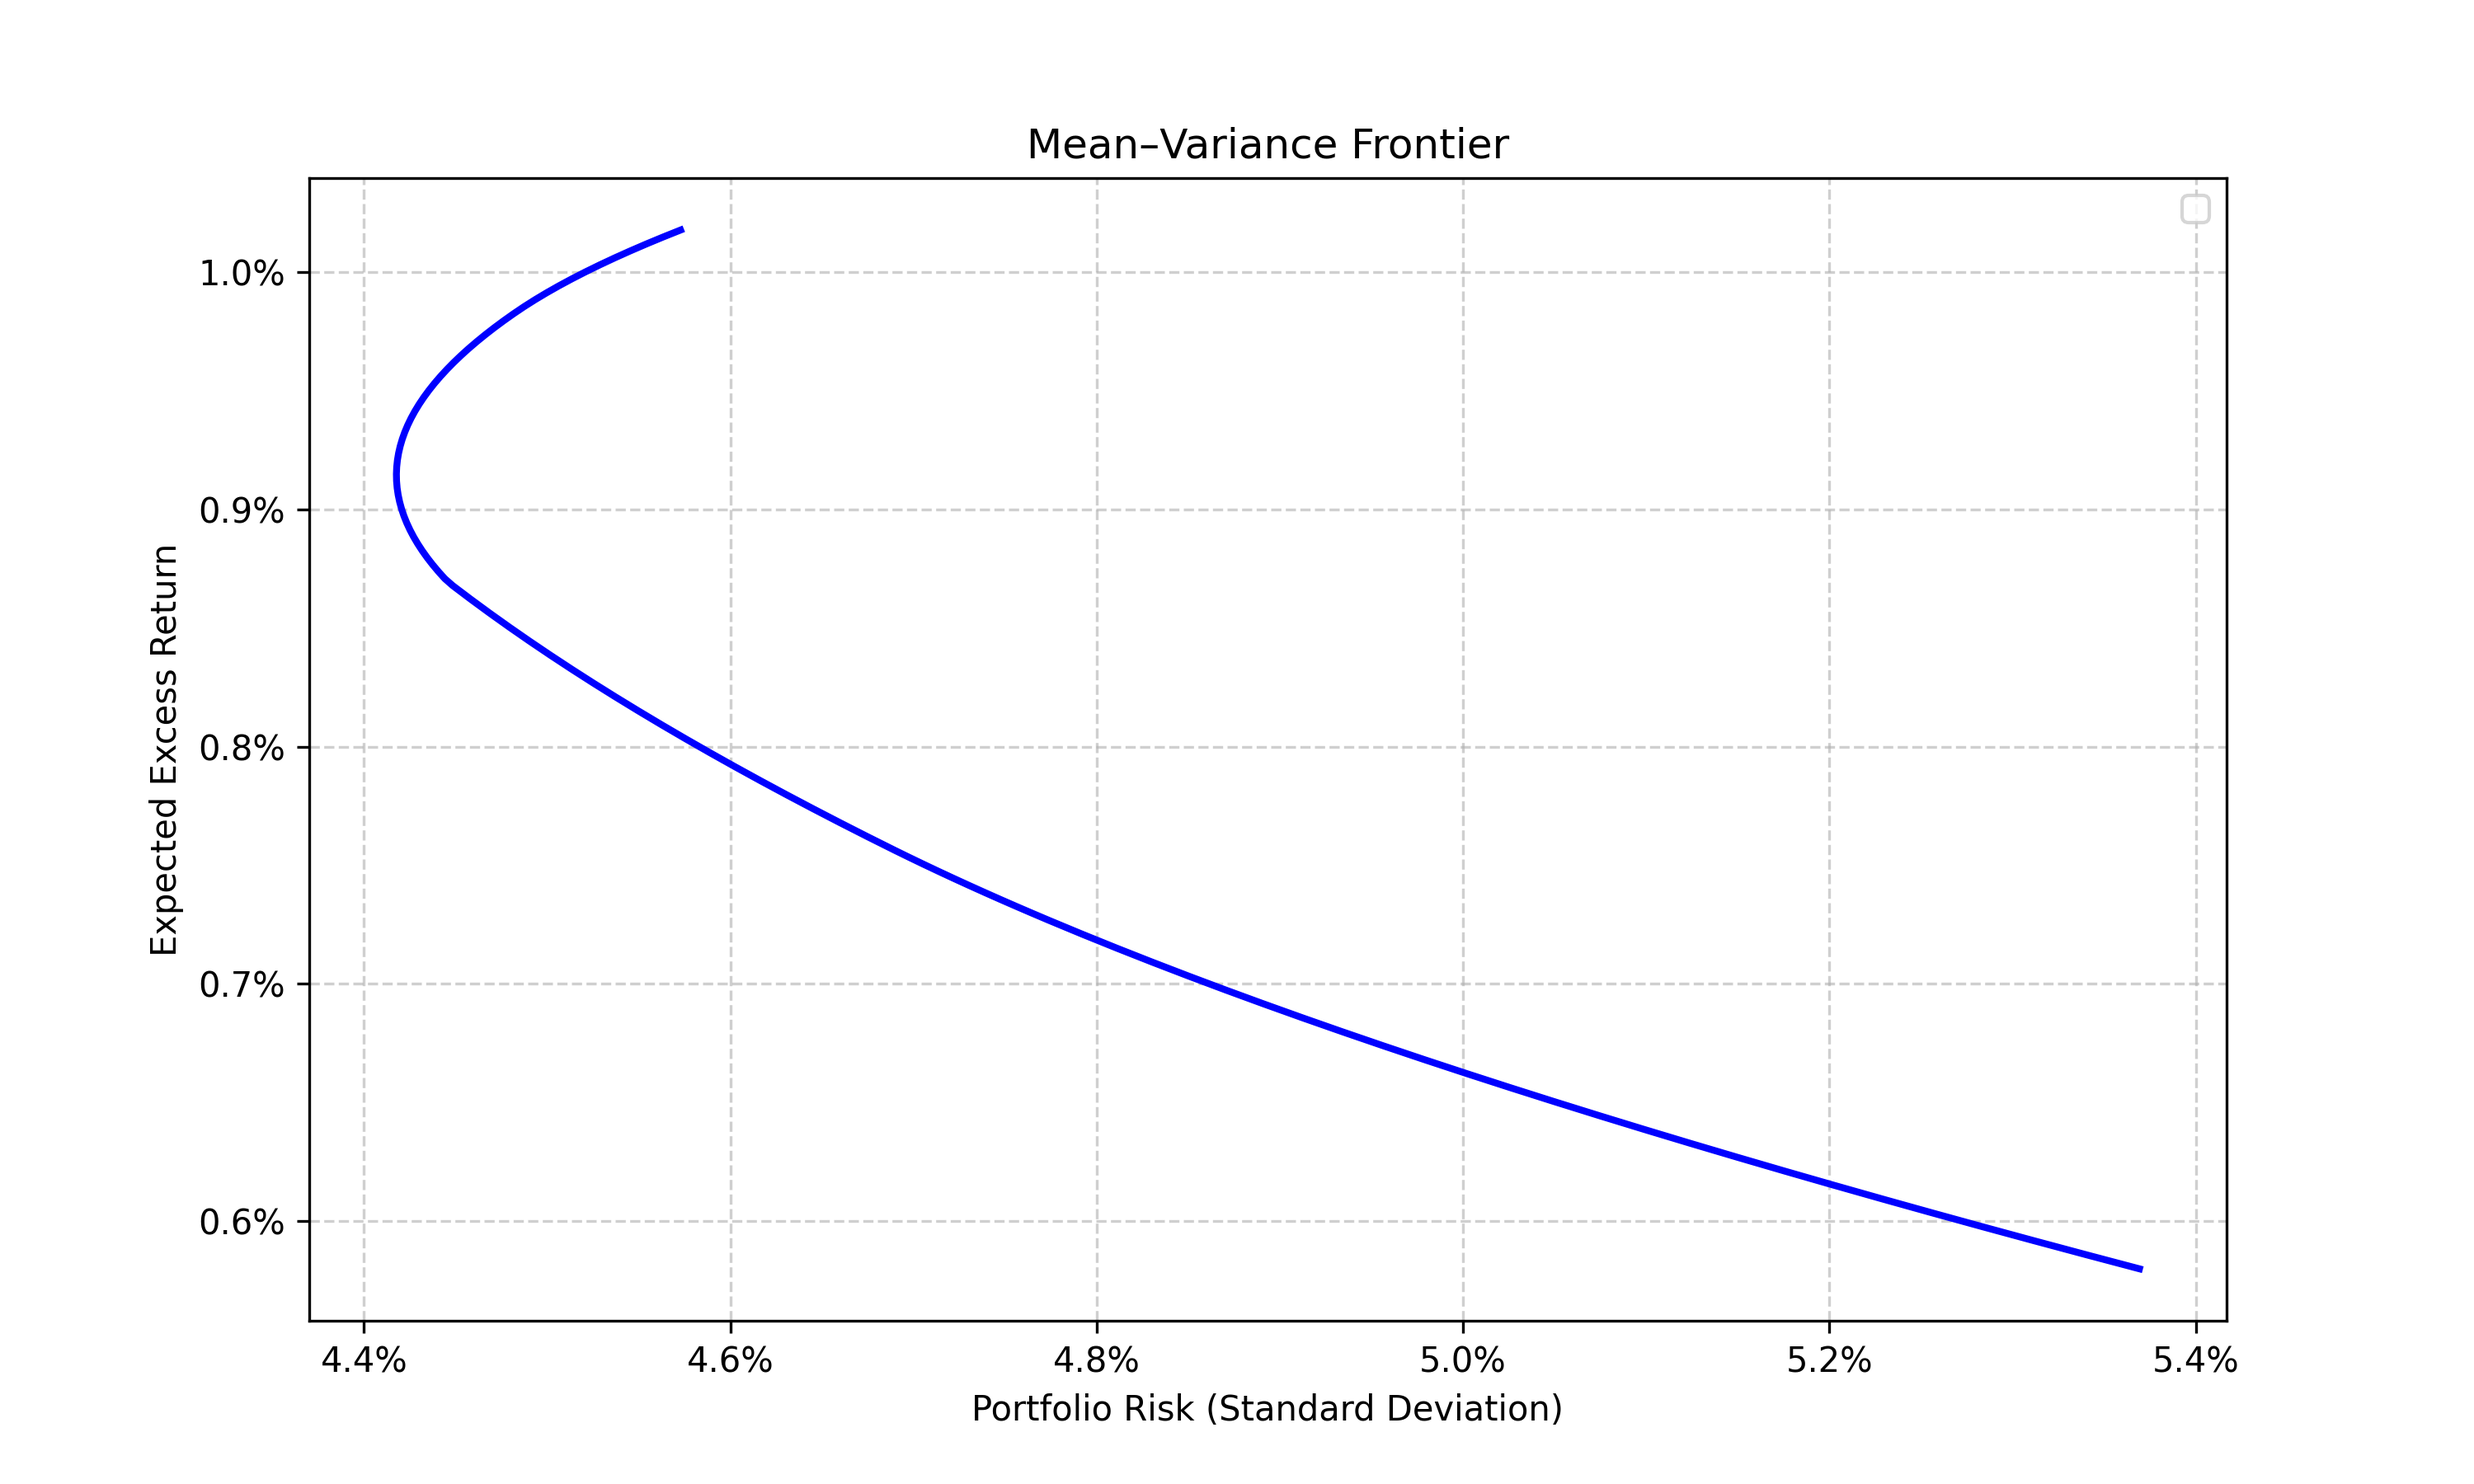
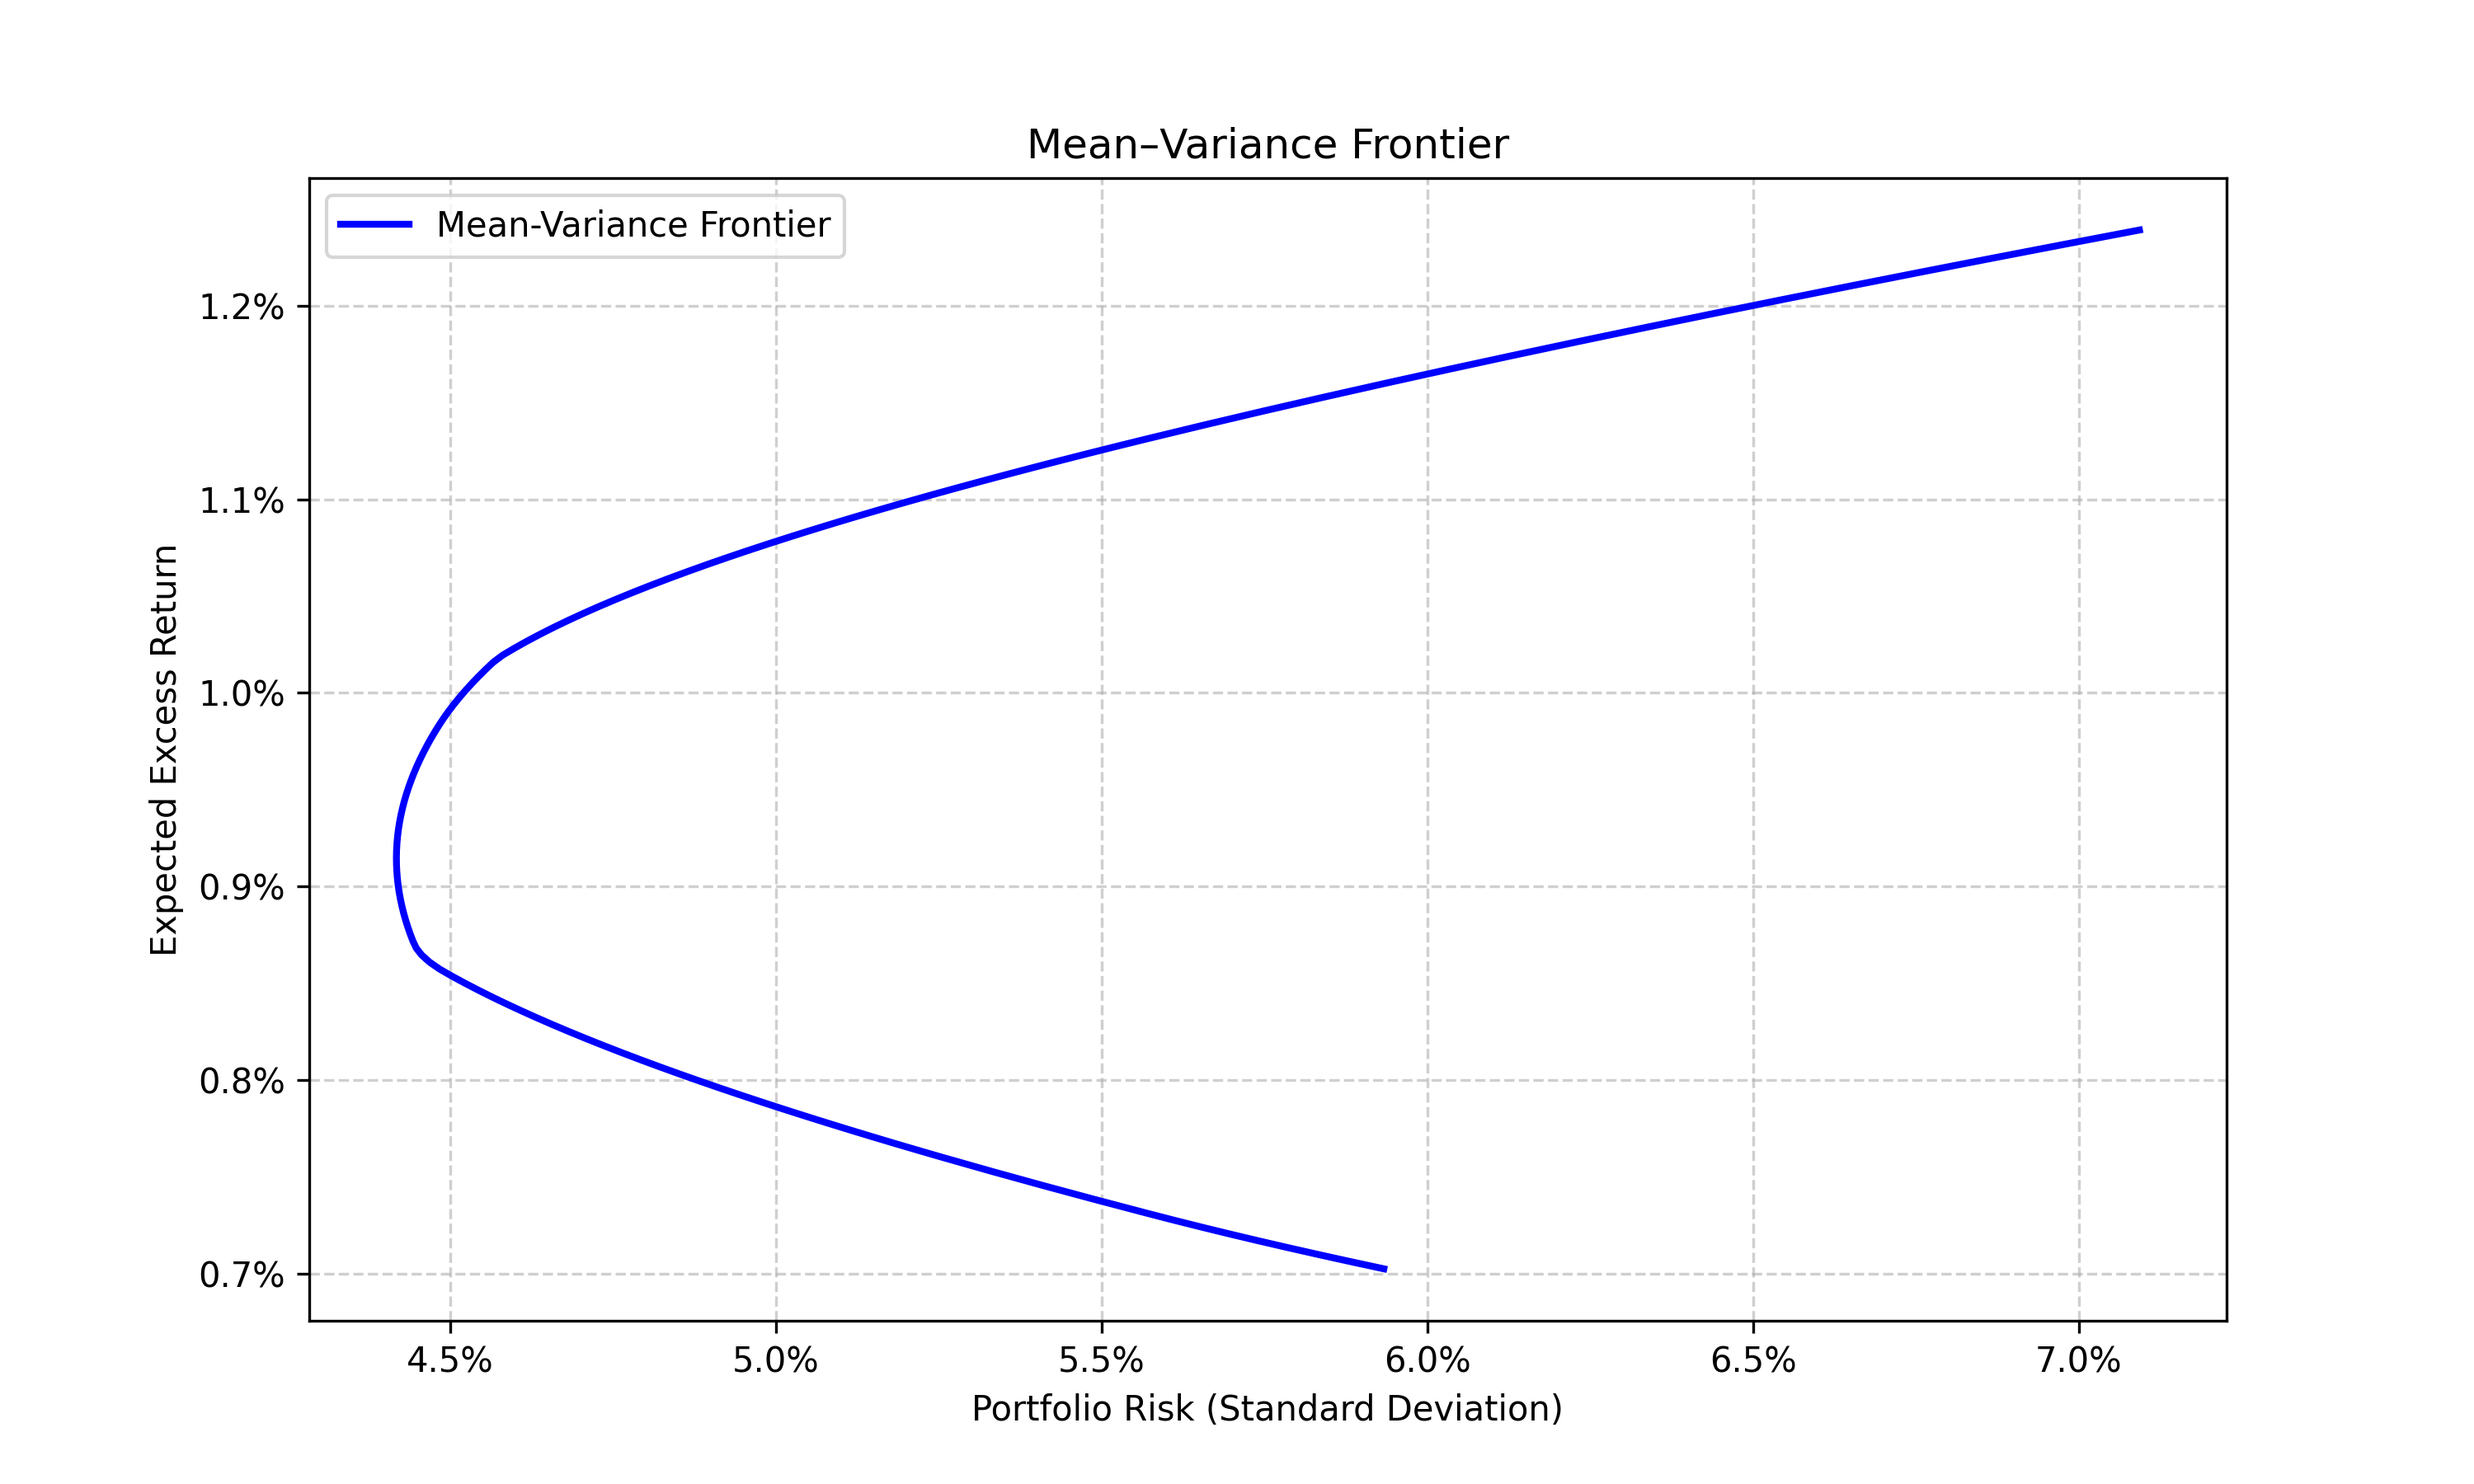
last

diff --git a/markowitz.py b/markowitz.py
@@ -39,7 +39,11 @@ def markowitz_optimizer(mean_return, cov_matrix, target, direction = "min", allo
     
     w0 = np.zeros(len(mean_return)) + 1/len(mean_return)
 
-    bound = [(0, 1)] * len(mean_return) # Ensures no shorting is allowed
+    if not allow_short:
+        bound = [(0, 1)] * len(mean_return) # Ensures no shorting is allowed
+    
+    if allow_short:
+        bound = [(-1, 1)] * len(mean_return) # Allows shorting up to -200%
 
     if direction == "min":
         cons = [{'type': 'eq', 'fun': weights_sum_constr},
@@ -60,7 +64,7 @@ def markowitz_optimizer(mean_return, cov_matrix, target, direction = "min", allo
 
 # function that finds the empirical minimum variance frontier:
 
-def efficient_frontier(eu_data, us_data, eu_factors, us_factors, n_points=150, allow_short = False):
+def efficient_frontier(eu_data, us_data, eu_factors, us_factors, target_ret = None, n_points=150, allow_short = False):
     eu = eu_data[eu_factors]
     # prefix EU_ to each column name to avoid duplicates
     eu.columns = ["EU_" + col for col in eu.columns]
@@ -77,16 +81,23 @@ def efficient_frontier(eu_data, us_data, eu_factors, us_factors, n_points=150, a
 
     target_returns = np.linspace(mu_min, mu_max, n_points)
 
+    if allow_short:
+        target_returns = np.linspace(0.5, 2, n_points)
+
     frontier_returns = []
     frontier_variance = []
     frontier_weights = []
+    market_cols = [i for i, nm in enumerate(data.columns) if nm.endswith("RM_RF")]
 
     if allow_short:
         for mu in target_returns:
             res = markowitz_optimizer(mean_return, cov_matrix, mu, allow_short= True, direction="min")
             if res.success:
                 w = res.x
-                port_return = w @ mean_return
+                risk_free_weight = 0
+                if sum(w[market_cols]) < 1:
+                    risk_free_weight = 1 - sum(w[market_cols])
+                port_return = w @ mean_return + risk_free_weight * eu_data.iloc[-1]['RF']
                 port_var = w.T @ cov_matrix @ w
                 frontier_returns.append(port_return)
                 frontier_variance.append(np.sqrt(port_var))
@@ -111,9 +122,24 @@ def efficient_frontier(eu_data, us_data, eu_factors, us_factors, n_points=150, a
 # Function that plots the frontier:
 
 
+def frontier_plotter_compare(risks, returns, risks_short, returns_short, name = ""):
+    plt.figure(figsize=(10, 6))
+    plt.plot(risks, returns, 'b-', lw=2, label='Mean-Variance Frontier (No Shorting)')
+    plt.plot(risks_short, returns_short, 'r-', lw=2, label='Mean-Variance Frontier (Shorting Allowed)')
+    plt.xlabel('Portfolio Risk (Standard Deviation)')
+    plt.ylabel('Expected Excess Return')
+    plt.title('Mean–Variance Frontier')
+    plt.grid(True, linestyle='--', alpha=0.6)
+    plt.legend()
+    plt.gca().xaxis.set_major_formatter(lambda v,pos: f"{v:.1f}%")
+    plt.gca().yaxis.set_major_formatter(lambda v,pos: f"{v:.1f}%")
+    # saves plot in high resolution
+    plt.savefig(f"{name}.png", dpi=300)
+    #plt.show()
+
 def frontier_plotter(risks, returns):
     plt.figure(figsize=(10, 6))
-    plt.plot(risks, returns, 'b-', lw=2)
+    plt.plot(risks, returns, 'b-', lw=2, label='Mean-Variance Frontier')
     plt.xlabel('Portfolio Risk (Standard Deviation)')
     plt.ylabel('Expected Excess Return')
     plt.title('Mean–Variance Frontier')
@@ -126,13 +152,23 @@ def frontier_plotter(risks, returns):
     #plt.show()
 
 
-us_factors, eu_factors = ["RM_RF", "MOM", "SMB"], ["RM_RF", "MOM"]
+us_factors, eu_factors = ["RM_RF", "MOM", "SMB"], ["MOM", "SMB"]
+
+EU_data_long = pd.read_csv("csv_files/long_EXPORT EU EUR.csv")
+US_data_long = pd.read_csv("csv_files/long_EXPORT US EUR.csv")
+
+variance, returns, weights = efficient_frontier(EU_data_long, US_data_long, eu_factors, us_factors, n_points=150, allow_short = False)
+
+us_factors, eu_factors = ["SMB", "MOM", "RM_RF"], ["RM_RF", "MOM", "SMB"]
+
+returns_short = np.linspace(0.4, 2.5, 50)
+
+variance_short, returns_short, weights_short = efficient_frontier(EU_data, US_data, eu_factors, us_factors, n_points=50, allow_short = True, target_ret = returns_short)
 
 
+frontier_plotter_compare(variance, returns, variance_short, returns_short, name = "efficient_frontier_compare")
 
-# variance, returns, weights = efficient_frontier(EU_data, US_data, eu_factors, us_factors, n_points=50, allow_short = True)
-
-# frontier_plotter(variance, returns)
+frontier_plotter(variance, returns)
 
 # We want to invest in the portfolio with the highest sharpe ratio, that is the tangent portfolio
 # but we can't use theoretical results because we have a no-shorting constraint

diff --git a/strategy_comparison_plot.py b/strategy_comparison_plot.py
@@ -72,6 +72,8 @@ def result_plot(EU_data, US_data, window, n_points, eu_factors, us_factors, mark
         # Use markowitz function to get markowitz return and value development of tangent strategy
         markowitz_returns_tan = markowitz_historical(EU_data, US_data, eu_factors, us_factors, window, strategy = "tangent", n_points = n_points, allow_short=markowitz_short)
         markowitz_value_tan = returns_to_value(markowitz_returns_tan)
+        markowitz_returns_minvar = markowitz_historical(EU_data, US_data, eu_factors, us_factors, window, strategy = "min_variance", n_points = n_points, allow_short=markowitz_short)
+        markowitz_value_minvar = returns_to_value(markowitz_returns_minvar)
         risk_parity_returns = []
         risk_parity_value = []   
         for vol_target in volatility_targets:
@@ -101,6 +103,7 @@ def result_plot(EU_data, US_data, window, n_points, eu_factors, us_factors, mark
     
     if name == "Markowitz vs Risk Parity strategies (with shorting)":
         plt.plot(EU_data['Date'][-len(markowitz_value_tan):], markowitz_value_tan, label='Tangent Strategy')
+        plt.plot(EU_data['Date'][-len(markowitz_value_minvar):], markowitz_value_minvar, label='Min Variance Strategy')
         for i, vol_target in enumerate(volatility_targets):
             plt.plot(EU_data['Date'][-len(risk_parity_value[i]):], risk_parity_value[i], label=f'Risk Parity Strategy (Vol Target: {vol_target}%)')
 
@@ -117,7 +120,7 @@ def result_plot(EU_data, US_data, window, n_points, eu_factors, us_factors, mark
     if name == "Markowitz strategy comparison":
        return markowitz_returns_tan, markowitz_returns_max, markowitz_returns_minvar, market_returns
     if name == "Markowitz vs Risk Parity strategies (with shorting)":
-         return markowitz_returns_tan, risk_parity_returns, market_returns
+         return markowitz_returns_tan, markowitz_returns_minvar, risk_parity_returns, market_returns
 
 
 
@@ -138,7 +141,7 @@ markowitz_short = True
 
 name = "Markowitz vs Risk Parity strategies (with shorting)"
 
-volatility_targets = [1.5, 3, 5]
+volatility_targets = [2, 5]
 
 window = 36
 
@@ -153,7 +156,7 @@ has_MOM2, has_SMB2, has_RM_RF2 = True, True, True
 
 eu_factors, us_factors = ["MOM", "SMB", "RM_RF"], ["RM_RF", "MOM", "SMB"]
 
-markowitz_returns_tan, risk_parity_returns, market_returns = result_plot(name = name, volatility_targets= volatility_targets, EU_data = EU_data, US_data = US_data, eu_factors = eu_factors, us_factors = us_factors, n_points = n_points, window = window, markowitz_short= markowitz_short, data = "both", baseline_market= "EU", has_SMB1=has_SMB1, has_SMB2=has_SMB2, has_MOM1=has_MOM1, has_MOM2=has_MOM2, has_RM_RF1=has_RM_RF1, has_RM_RF2=has_RM_RF2)
+markowitz_returns_tan, markowitz_returns_minvar, risk_parity_returns, market_returns = result_plot(name = name, volatility_targets= volatility_targets, EU_data = EU_data, US_data = US_data, eu_factors = eu_factors, us_factors = us_factors, n_points = n_points, window = window, markowitz_short= markowitz_short, data = "both", baseline_market= "EU", has_SMB1=has_SMB1, has_SMB2=has_SMB2, has_MOM1=has_MOM1, has_MOM2=has_MOM2, has_RM_RF1=has_RM_RF1, has_RM_RF2=has_RM_RF2)
 
 #markowitz_returns_tan, markowitz_returns_max, markowitz_returns_minvar, market_returns = result_plot(name = name, volatility_targets= volatility_targets, EU_data = EU_data, US_data = US_data, eu_factors = eu_factors, us_factors = us_factors, n_points = n_points, window = window, markowitz_short= markowitz_short, data = "both", baseline_market= "EU", has_SMB1=has_SMB1, has_SMB2=has_SMB2, has_MOM1=has_MOM1, has_MOM2=has_MOM2, has_RM_RF1=has_RM_RF1, has_RM_RF2=has_RM_RF2) 
 
@@ -179,6 +182,7 @@ if name == "Markowitz strategy comparison":
 if name == "Markowitz vs Risk Parity strategies (with shorting)":
     strategies = {
         "Tangent": markowitz_returns_tan,
+        "Min Variance": markowitz_returns_minvar,
     }
     for i, vol_target in enumerate(volatility_targets):
         strategies[f'Risk Parity (Vol Target: {vol_target}%)'] = risk_parity_returns[i]

diff --git a/CPPI.py b/CPPI.py
@@ -310,7 +310,7 @@ plt.xlabel('Month')
 plt.ylabel('Amount')
 plt.title('CPPI Wealth and Guarantee over Time')
 plt.legend()
-#plt.show()
+plt.show()
 
 
 # ---- Loop for different m with initial L_target and L_trigger ----
@@ -329,15 +329,17 @@ for m_val in m_values:
                     "m": m_val,
                     # "L_target": L_t,
                     # "L_trigger": L_tr,
-                    "Avg Guarantee": np.mean(guarantee),
-                    "Minimum guarantee": np.min(guarantee),
-                    "Minimum Wealth": np.min(W_120),
-                    "Avg Return": np.mean(Return_120),
+                    "Avg(G)": np.mean(guarantee),
+                    "Min(G)": np.min(guarantee),
+                    "Std(G)": np.std(guarantee),
+                    "Avg(W)": np.mean(W_120),
+                    "Std(W)": np.std(W_120),
+                    "Avg(Tie-ins)": np.mean(num_tie_in),
                     # "Min Return": np.min(Return_120)
                 })
 
 table = pd.DataFrame(rows, columns=[
-    'm', 'Avg Guarantee', 'Minimum guarantee', 'Minimum Wealth', 'Avg Return'
+    'm', 'Avg(G)', 'Min(G)', 'Std(G)', 'Avg(W)', 'Std(W)', 'Avg(Tie-ins)'
 ])
 print(table)
 
@@ -360,15 +362,17 @@ for m_val in m_values:
                     "m": m_val,
                     "L_target": L_t,
                     "L_trigger": L_tr,
-                    "Avg Guarantee": np.mean(guarantee),
-                    "Minimum guarantee": np.min(guarantee),
-                    "Minimum Wealth": np.min(W_120),
-                    "Avg Return": np.mean(Return_120),
-                    # "Min Return": np.min(Return_120)
+                    "Avg(G)": np.mean(guarantee),
+                    "Min(G)": np.min(guarantee),
+                    "Std(G)": np.std(guarantee),
+                    "Avg(W)": np.mean(W_120),
+                    "Std(W)": np.std(W_120),
+                    "Avg(Tie-ins)": np.mean(num_tie_in),
+                    #"Min Return": np.min(Return_120)
                 })
 
 table = pd.DataFrame(rows, columns=[
-    'm', 'L_target', 'L_trigger', 'Avg Guarantee', 'Minimum guarantee', 'Minimum Wealth', 'Avg Return'
+    'm', 'L_target', 'L_trigger', 'Avg(G)', 'Min(G)', 'Std(G)', 'Avg(W)', 'Std(W)', 'Avg(Tie-ins)'
 ])
 print(table)
 
